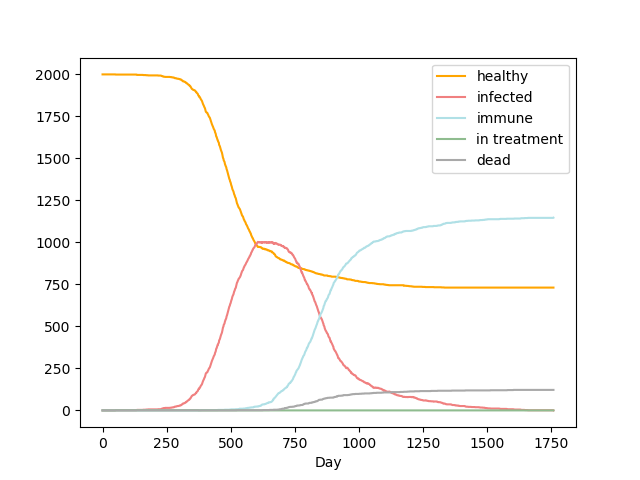
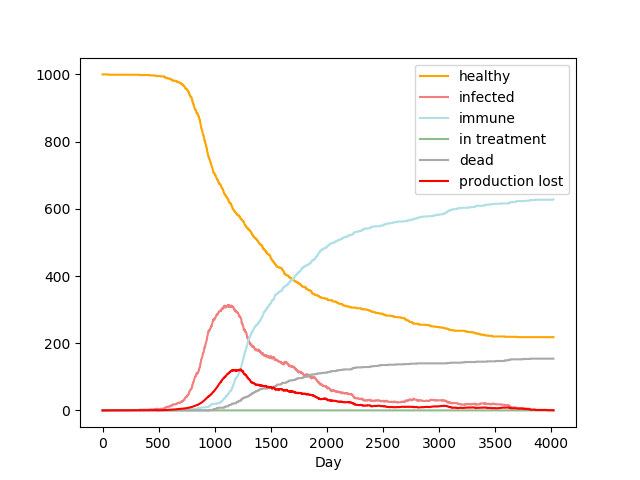
simulation update

diff --git a/simulation/infection.py b/simulation/infection.py
@@ -134,16 +134,18 @@ def infect(population, Config, frame, send_to_location=False,
                     if send_to_location | Config.contact_tracing:
                         # send to location if die roll is positive
                         if np.random.uniform() <= location_odds:
-                            population[np.int32(patient[0])], \
-                            destinations[np.int32(patient[0])] = go_to_location(population[np.int32(patient[0])],
-                                                                                destinations[
-                                                                                    np.int32(patient[0])],
-                                                                                location_bounds,
-                                                                                dest_no=location_no)
+                            if np.random.random() < Config.contact_tracing_compliance * Config.app_installed_probability:
+                                population[np.int32(patient[0])], \
+                                destinations[np.int32(patient[0])] = go_to_location(population[np.int32(patient[0])],
+                                                                                    destinations[
+                                                                                        np.int32(patient[0])],
+                                                                                    location_bounds,
+                                                                                    dest_no=location_no)
                             if population[np.int32(patient[0])][15] == 0:
-                                population[np.int32(patient[0])][15] = 1
-                                population[np.int32(patient[0])][5] = 0
-                                population[np.int32(patient[0])][16] = frame
+                                if np.random.random() < Config.contact_tracing_compliance * Config.app_installed_probability:
+                                    population[np.int32(patient[0])][15] = 1
+                                    population[np.int32(patient[0])][5] = 0
+                                    population[np.int32(patient[0])][16] = frame
                             else:
                                 pass
                 else:
@@ -189,6 +191,7 @@ def infect(population, Config, frame, send_to_location=False,
                                          infected_previous_step = infected_previous_step)
                 
                 if poplen > 0:
+                    # this person was exposed
                     if Config.contact_tracing:
                         # not all people will follow the App indication
                         if np.random.random() < Config.contact_tracing_compliance * Config.app_installed_probability:
@@ -211,11 +214,12 @@ def infect(population, Config, frame, send_to_location=False,
                             if send_to_location | Config.contact_tracing:
                                 #send to location and add to treatment if die roll is positive
                                 if np.random.uniform() < location_odds:
-                                    population[np.int32(person[0])],\
-                                    destinations[np.int32(person[0])] = go_to_location(population[np.int32(person[0])],
-                                                                                        destinations[np.int32(person[0])],
-                                                                                        location_bounds,
-                                                                                        dest_no=location_no)
+                                    if np.random.random() < Config.contact_tracing_compliance * Config.app_installed_probability:
+                                        population[np.int32(person[0])],\
+                                        destinations[np.int32(person[0])] = go_to_location(population[np.int32(person[0])],
+                                                                                            destinations[np.int32(person[0])],
+                                                                                            location_bounds,
+                                                                                            dest_no=location_no)
 
                         new_infections.append(np.int32(person[0]))
 
@@ -282,16 +286,16 @@ def recover_or_die(population, frame, Config):
             quarantine_duration = frame - people[16]
             if quarantine_duration >= Config.incubation_stage_duration:
                 if people[6] == 1:
-                    people[15] = 0
+                    population[np.int32(people[0])][15] = 0
                     if np.random.random() < Config.mortality_probability:
-                        people[6] = 2
-                        people[5] = np.random.normal(loc=0.01, scale=0.01 / 3)
+                        population[np.int32(people[0])][6] = 2
+                        population[np.int32(people[0])][5] = np.random.normal(loc=0.01, scale=0.01 / 3)
 
-                if int(people[6]) in [0, 2, 4]:
-                    people[15] = 0
-                    people[5] = np.random.normal(loc=0.01, scale=0.01 / 3)
-                if int(people[6]) == 3:
-                    people[15] = 0
+                if people[6] in [0, 2, 4]:
+                    population[np.int32(people[0])][15] = 0
+                    population[np.int32(people[0])][5] = np.random.normal(loc=0.01, scale=0.01 / 3)
+                if people[6] == 3:
+                    population[np.int32(people[0])][15] = 0
 
     #find infected people
     infected_people = population[population[:,6] == 1]

diff --git a/simulation/config.py b/simulation/config.py
@@ -79,7 +79,7 @@ class Configuration():
         self.infection_range=0.01 #range surrounding sick patient that infections can take place
         self.infection_chance=0.03   #chance that an infection spreads to nearby healthy people each tick
         self.fighting_duration=(200, 500) #how many ticks it may take to recover from the illness
-        self.mortality_probability=0.02 #global baseline chance of dying from the disease
+        self.mortality_probability=0.05 #global baseline chance of dying from the disease
 
         #healthcare variables
         self.healthcare_capacity = 300 #capacity of the healthcare system
@@ -90,7 +90,7 @@ class Configuration():
 
         #self isolation variables
         self.self_isolate_proportion = 0.6
-        self.isolation_bounds = [0.02, 0.02, 0.1, 0.98]
+        self.isolation_bounds = [0.02, 0.02, 0.09, 0.98]
         
         #lockdown variables
         self.lockdown_percentage = 0.1 
@@ -202,7 +202,7 @@ class Configuration():
         # self.contact_tracing_vector[np.random.uniform(size=(self.pop_size,)) >= (1-EFFICIENCY)] = 1
         self.isolation_bounds = isolation_bounds
         # set roaming bounds to outside isolated area
-        self.xbounds = [0.1, 1.1]
+        self.xbounds = [0.02, 0.98]
         self.ybounds = [0.02, 0.98]
 
 
